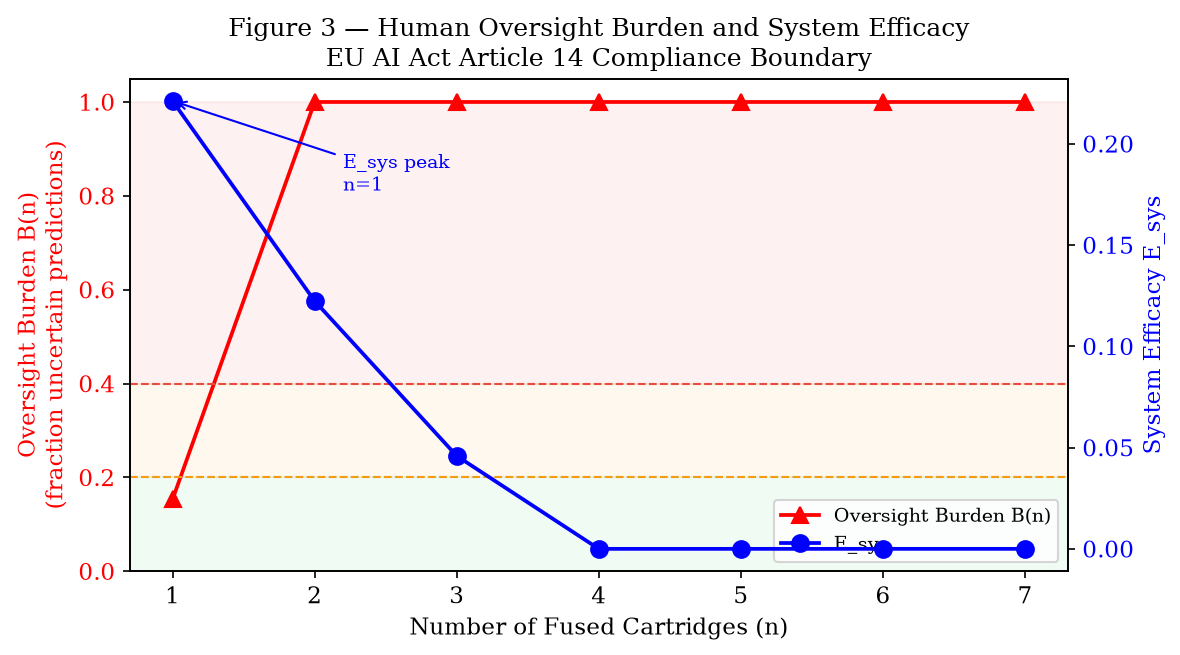
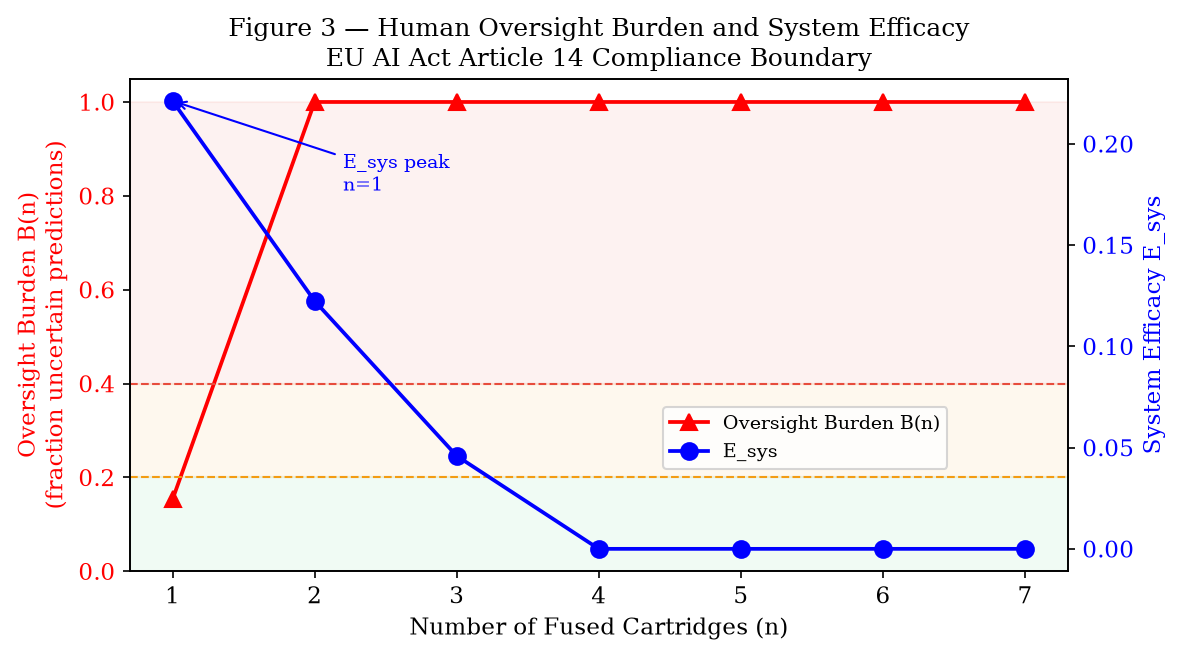
Figure 3: move legend into orange caution zone

Changed region(s): [[0.5492, 0.6107, 0.7932, 0.7328], [0.6407, 0.7634, 0.9153, 0.855]]

diff --git a/src/visualize.py b/src/visualize.py
@@ -150,7 +150,7 @@ def plot_oversight_and_esys(conditions: List[Dict], zones: List[Dict], cfg: Expe
 
     lines = [l1, l2]
     labels = [l.get_label() for l in lines]
-    ax1.legend(lines, labels, loc="lower right", fontsize=9)
+    ax1.legend(lines, labels, loc="center", bbox_to_anchor=(0.72, 0.27), fontsize=9)
 
     ax1.set_title("Figure 3 — Human Oversight Burden and System Efficacy\n"
                   "EU AI Act Article 14 Compliance Boundary")